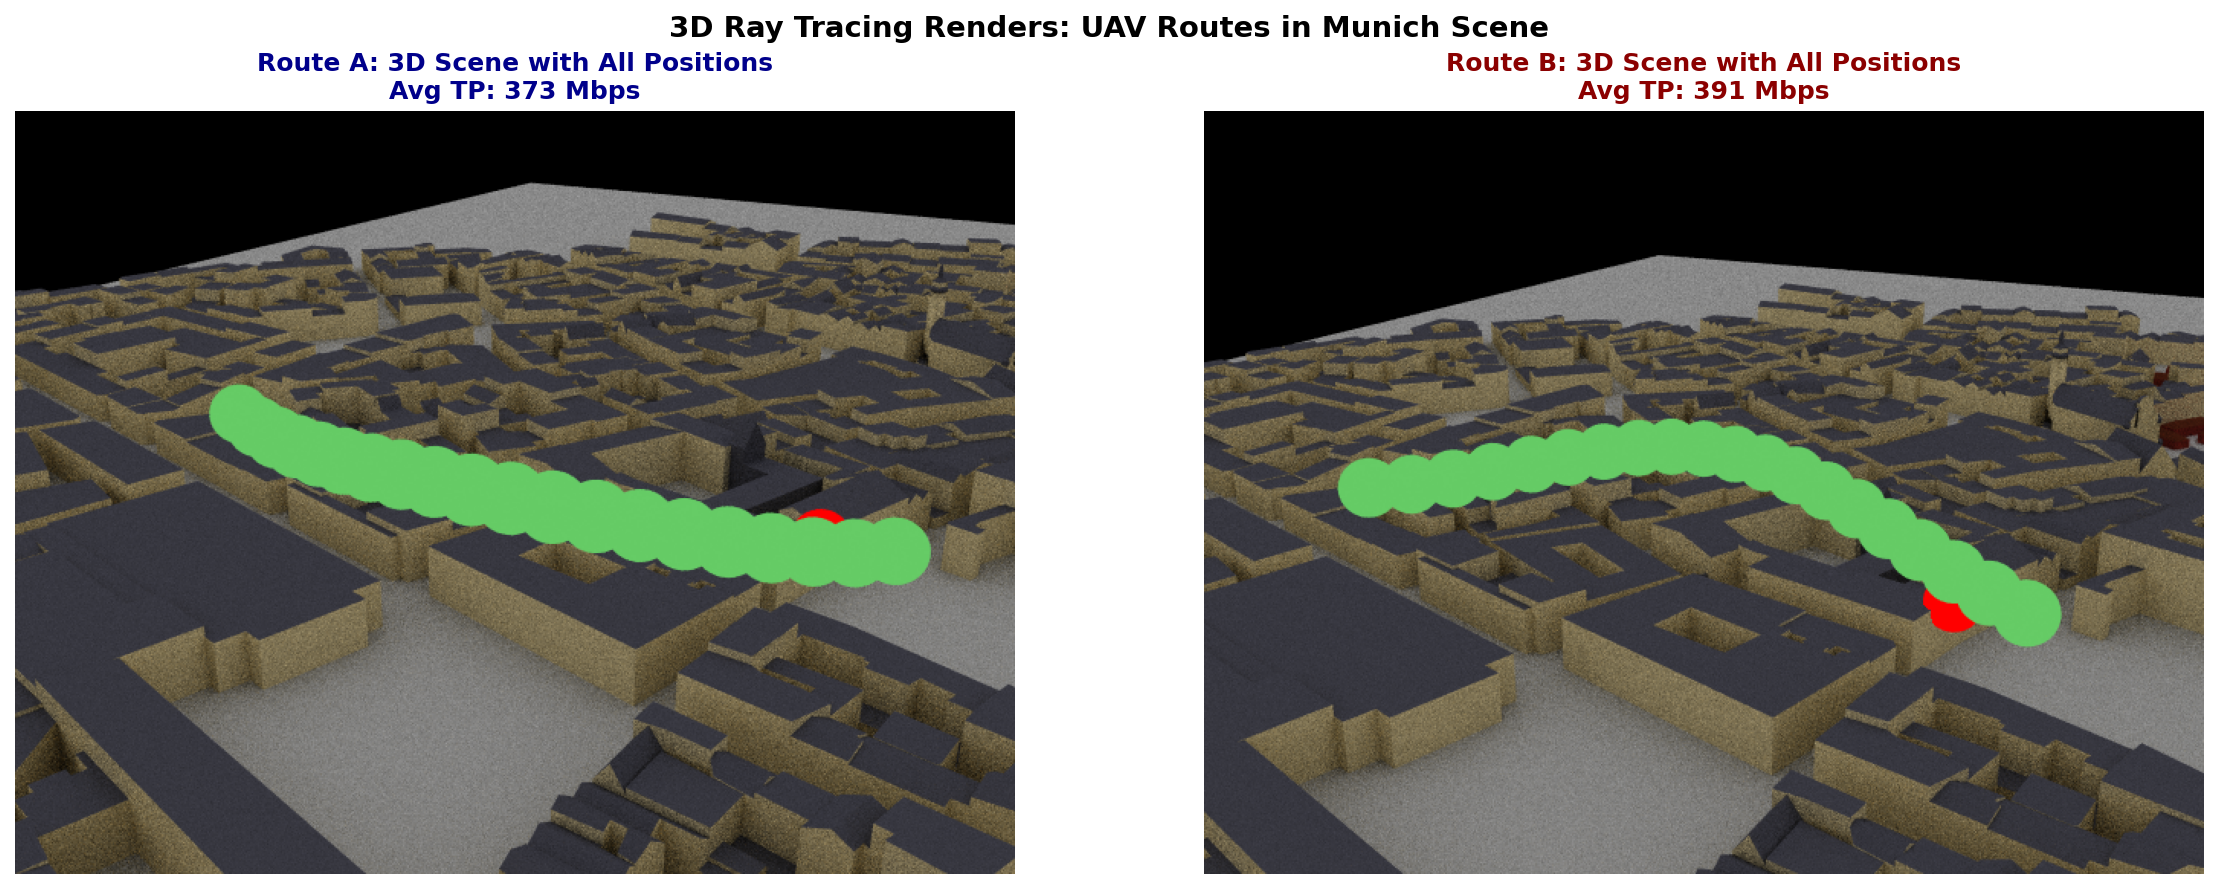
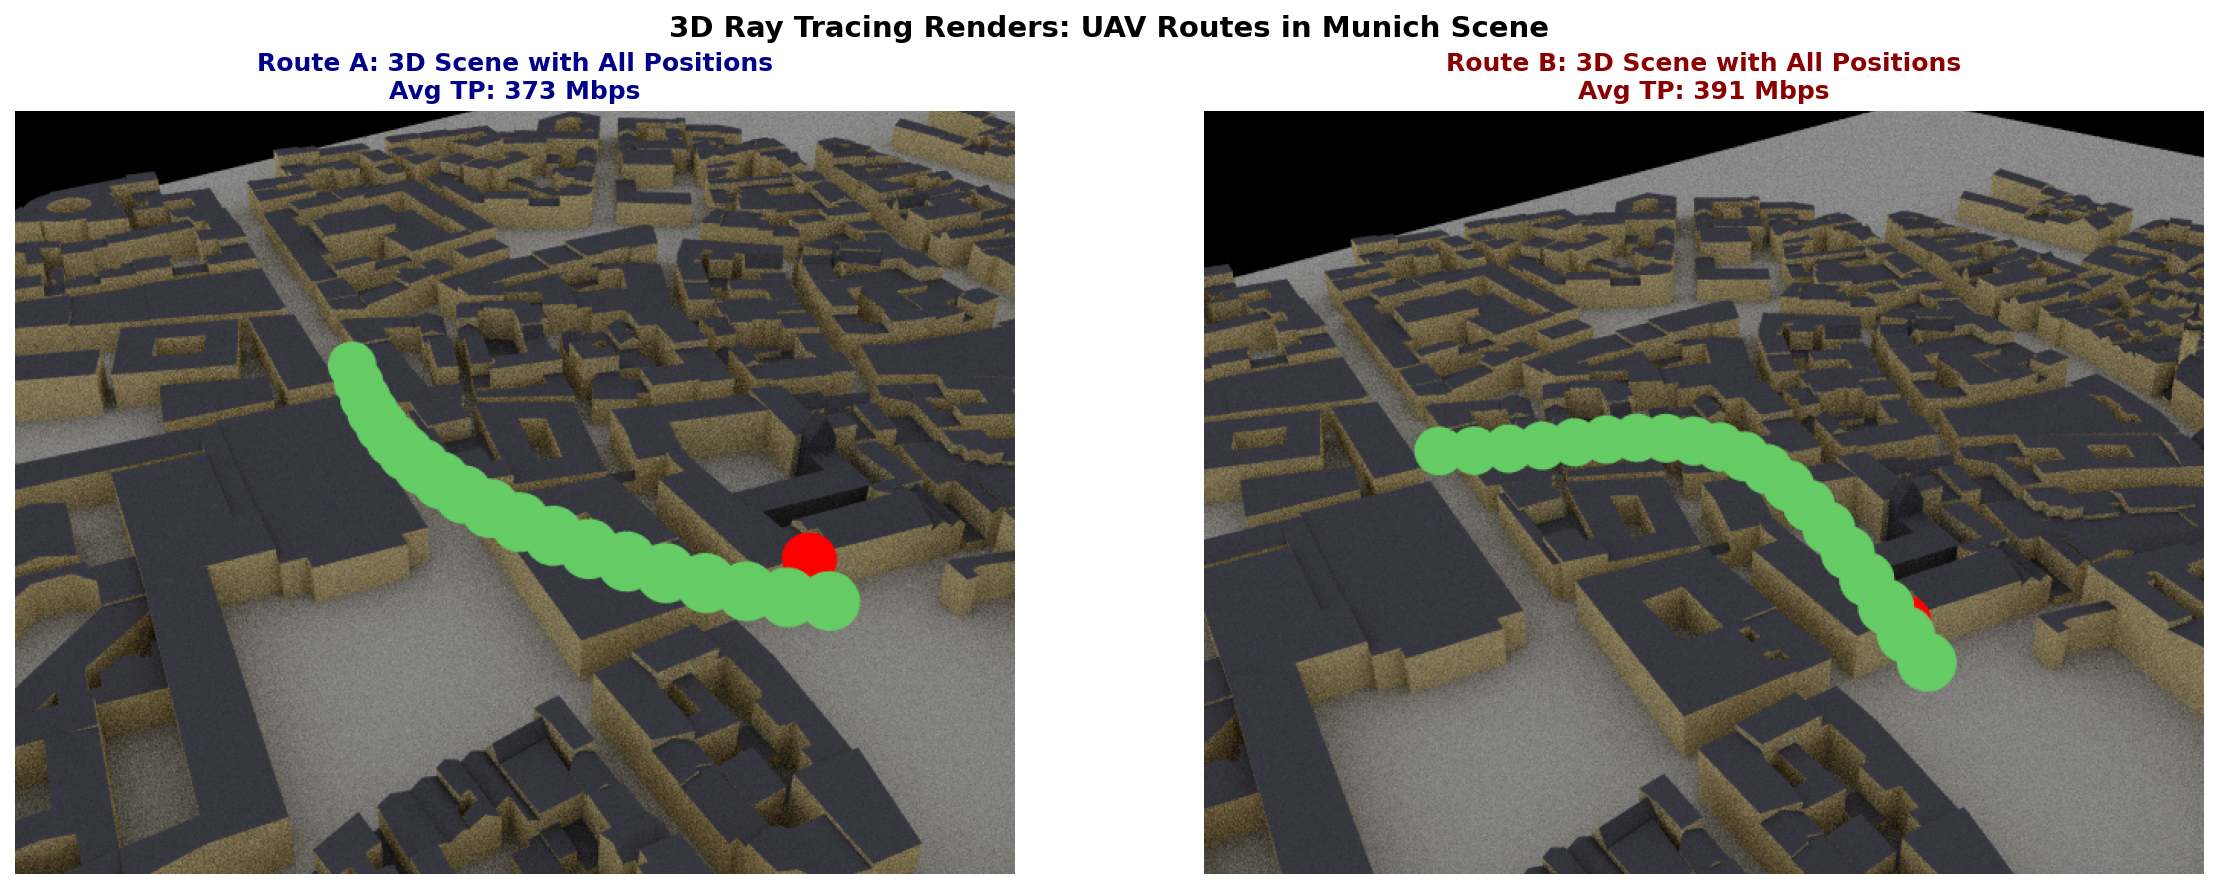
Fixes

diff --git a/final/testsrt/mobility.py b/final/testsrt/mobility.py
@@ -64,9 +64,9 @@ class ScenarioConfig:
     ROUTE_A_END = [250, 100, 60]      # Route A: destination (higher altitude)
     ROUTE_B_START = [50, 150, 35]     # Route B: same start
     ROUTE_B_END = [100, 300, 50]      # Route B: different destination
-    CAMERA_HEIGHT = 180
-    Y_OFFSET = 350
-    X_OFFSET = -100
+    CAMERA_HEIGHT = 280
+    Y_OFFSET = 300
+    X_OFFSET = -200
 
 class ScenarioConfig_BestRoute:
     """ALTERNATIVE: Same start/end, different paths (left vs right)
